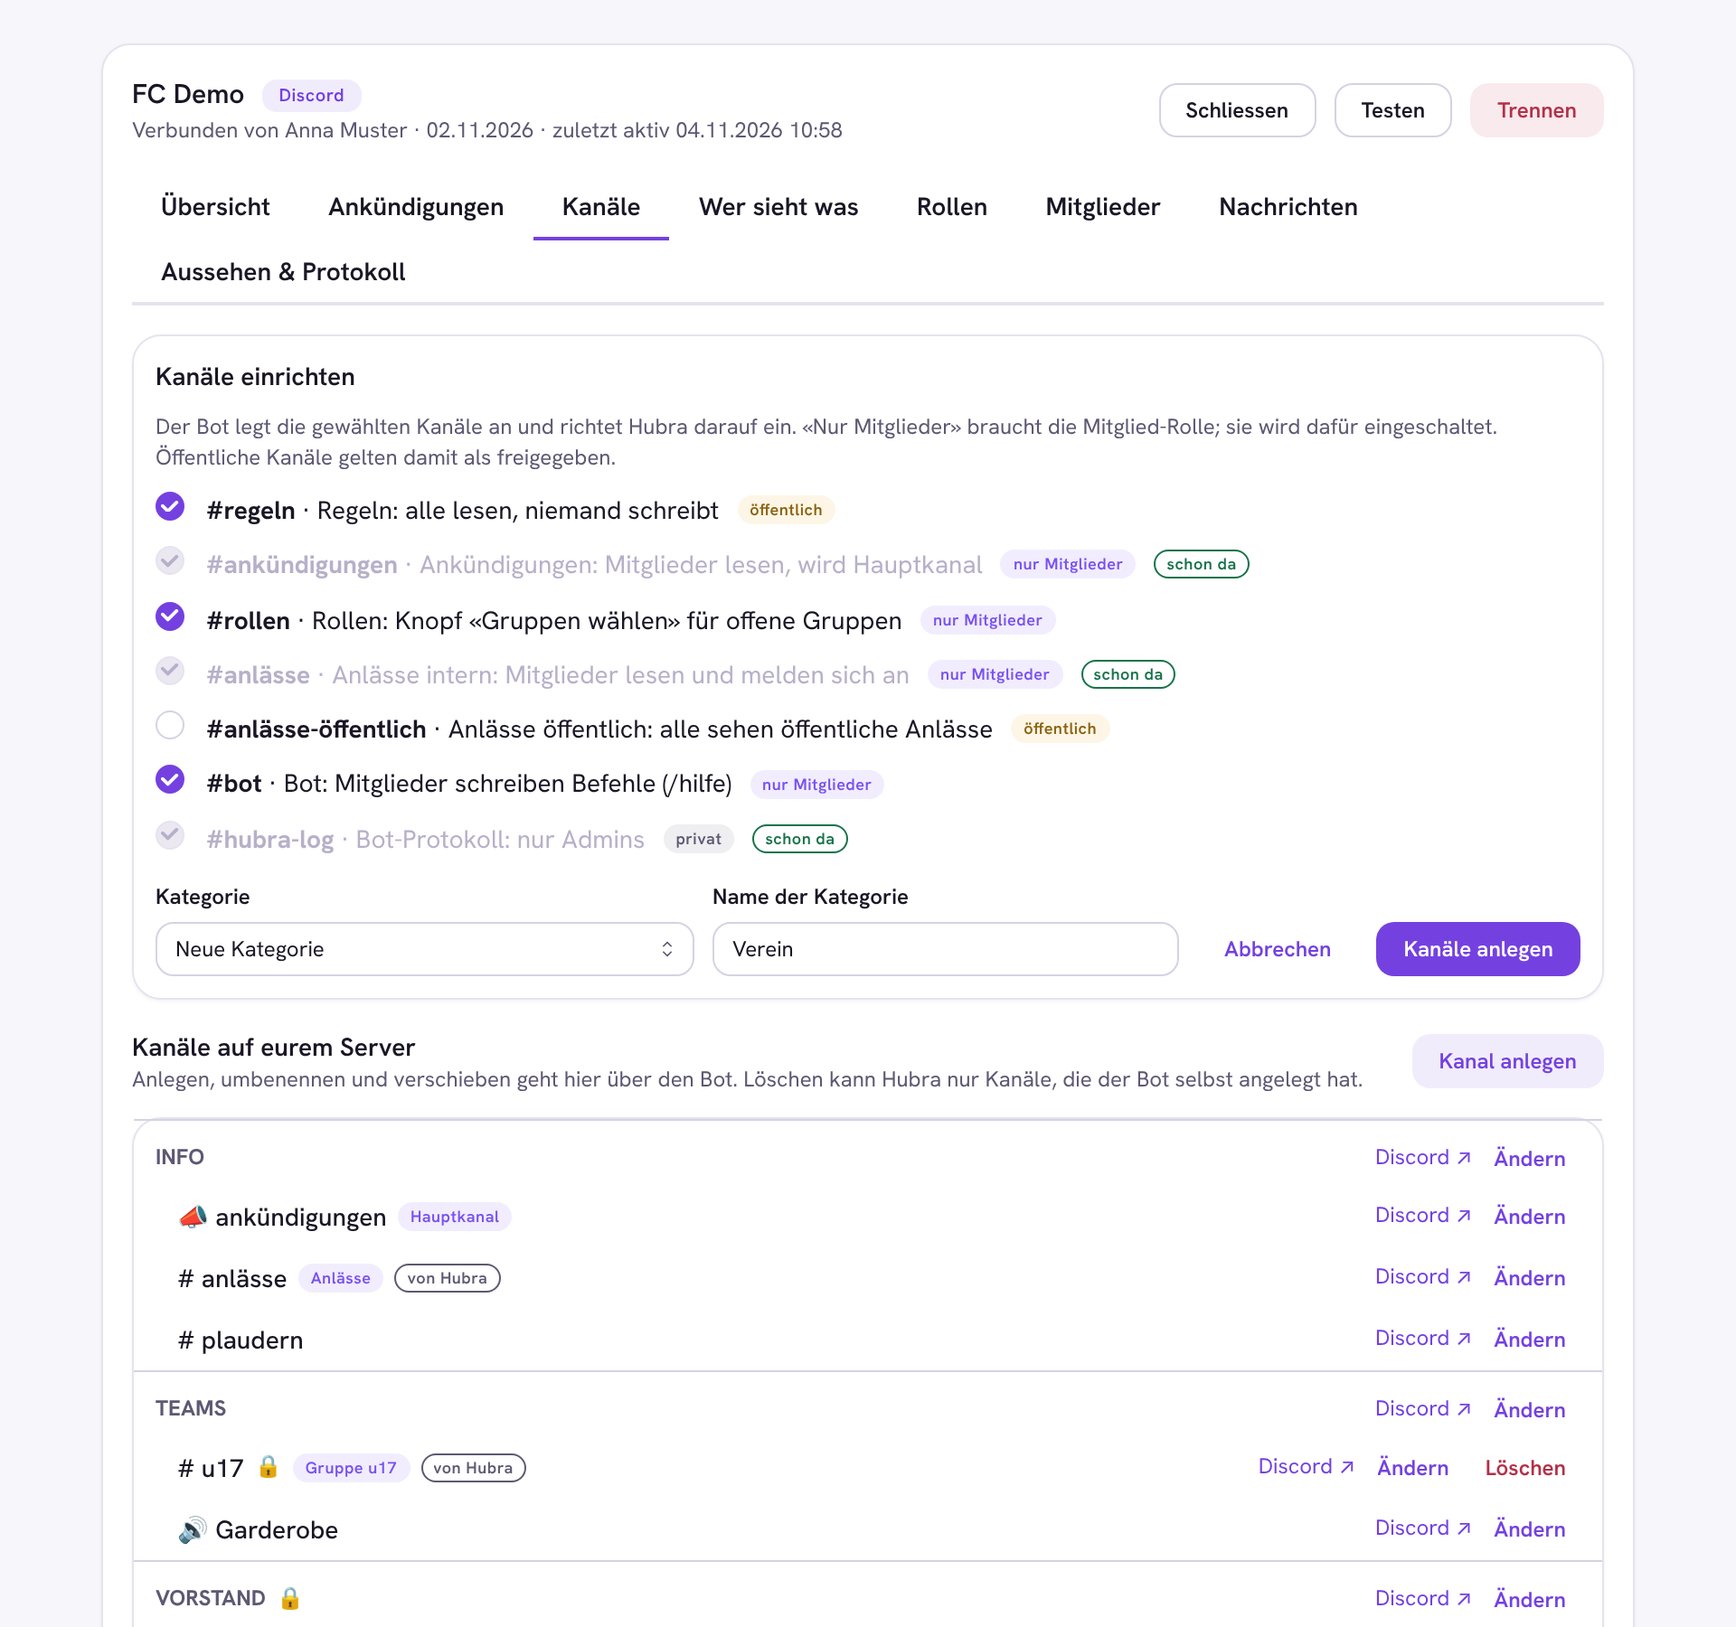
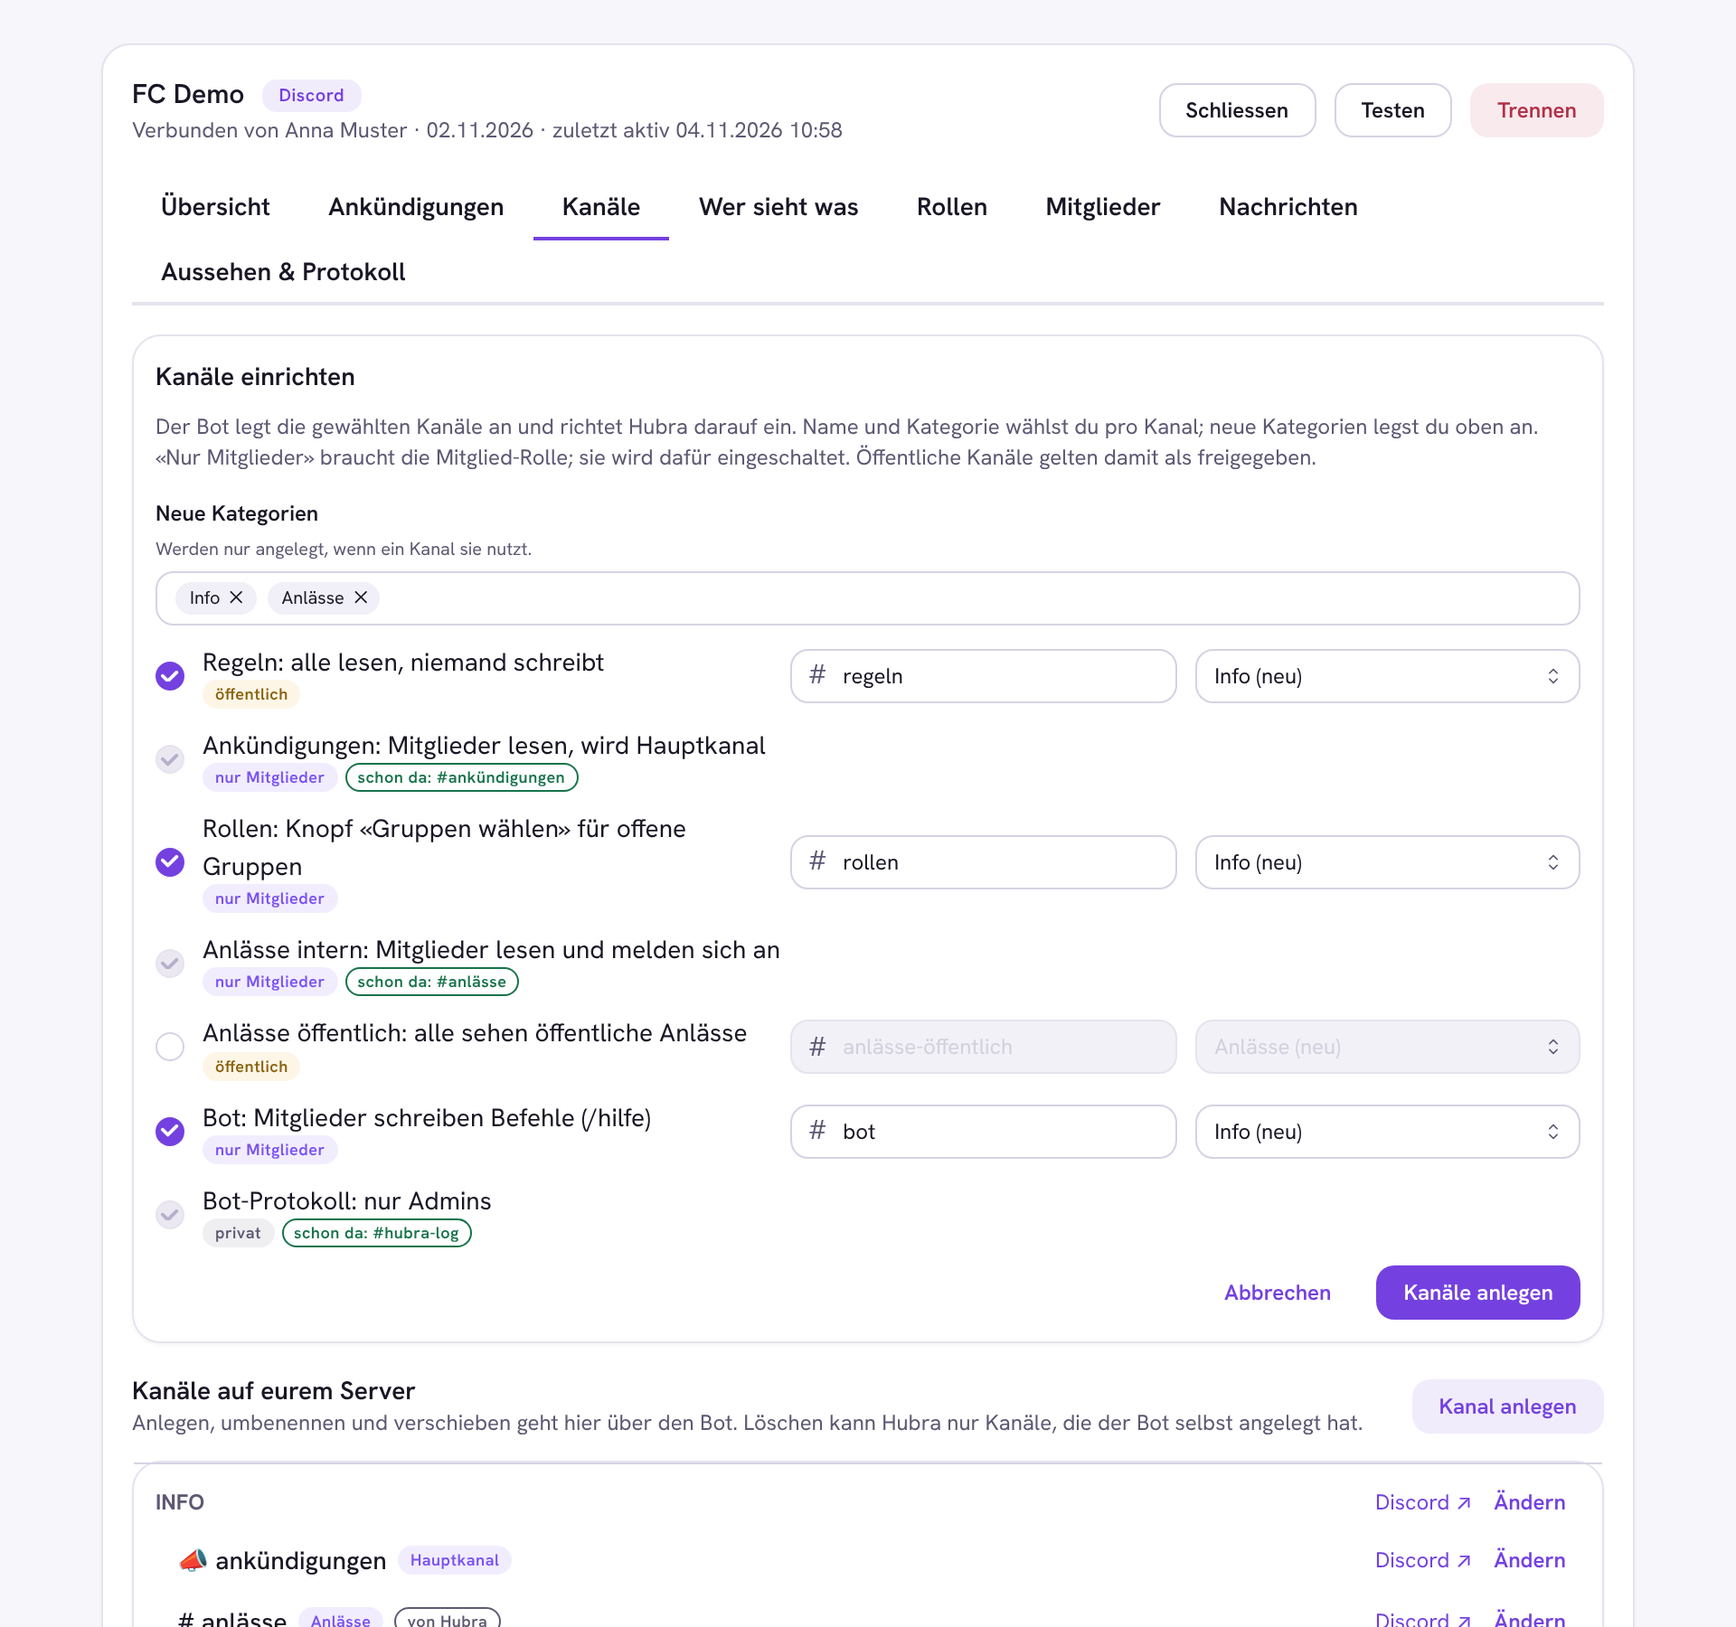
Channel layout: own name and category per channel, several new categories
Claude-Session: https://claude.ai/code/session_01Mn3pyktxtjp8bSzNmKSCQd

diff --git a/frontend/src/index.tsx b/frontend/src/index.tsx
@@ -13,6 +13,7 @@ import {
   Stack,
   Switch,
   Tabs,
+  TagsInput,
   Text,
   TextInput,
   Textarea,
@@ -1291,6 +1292,22 @@ const ACCESS_COLOR: Record<string, string> = {
   private: 'gray',
 }
 
+const DEFAULT_CATEGORY: Record<string, string> = {
+  rules: 'new:Info',
+  announcements: 'new:Info',
+  roles: 'new:Info',
+  events: 'new:Anlässe',
+  public_events: 'new:Anlässe',
+  bot: 'new:Info',
+  log: '',
+}
+
+interface SlotDraft {
+  on: boolean
+  name: string
+  category: string
+}
+
 function LayoutCard({ connection }: { connection: Connection }) {
   const { t } = useT()
   const { notify } = useToast()
@@ -1302,9 +1319,8 @@ function LayoutCard({ connection }: { connection: Connection }) {
     queryFn: () => apiFetch<LayoutState>(`/discord/connections/${connection.id}/layout`),
     enabled: open,
   })
-  const [picked, setPicked] = useState<string[]>(['rules', 'announcements', 'roles', 'events', 'bot'])
-  const [category, setCategory] = useState<string>('new')
-  const [categoryName, setCategoryName] = useState('Verein')
+  const [drafts, setDrafts] = useState<Record<string, SlotDraft>>({})
+  const [newCats, setNewCats] = useState<string[]>(['Info', 'Anlässe'])
   const [busy, setBusy] = useState(false)
   const access = (a: string) =>
     a === 'public_read'
@@ -1335,19 +1351,37 @@ function LayoutCard({ connection }: { connection: Connection }) {
       </Paper>
     )
   const data = query.data
+  const draft = (slot: LayoutState['slots'][number]): SlotDraft =>
+    drafts[slot.key] ?? {
+      on: ['rules', 'announcements', 'roles', 'events', 'bot'].includes(slot.key),
+      name: slot.name,
+      category: DEFAULT_CATEGORY[slot.key] ?? '',
+    }
+  const setDraft = (slot: LayoutState['slots'][number], patch: Partial<SlotDraft>) =>
+    setDrafts((d) => ({ ...d, [slot.key]: { ...draft(slot), ...patch } }))
+  const catData = [
+    { value: '', label: t('discord.ch.noCategory', 'Ohne Kategorie') },
+    ...newCats.map((n) => ({ value: `new:${n}`, label: t('discord.lay.newCat', '{{name}} (neu)', { name: n }) })),
+    ...(data?.categories ?? []).map((c) => ({ value: c.id, label: c.name })),
+  ]
+  const todo = (data?.slots ?? []).filter((s) => !s.channelId && draft(s).on)
   const run = async () => {
     setBusy(true)
     try {
-      const body =
-        category === 'new' ? { slots: picked, categoryName } : { slots: picked, categoryId: category || null }
-      const result = await apiFetch<{ made: { name: string }[] }>(`/discord/connections/${connection.id}/layout`, {
-        method: 'POST',
-        body: JSON.stringify(body),
+      const slots = todo.map((s) => {
+        const d = draft(s)
+        const category = d.category.startsWith('new:') && !newCats.includes(d.category.slice(4)) ? '' : d.category
+        return { key: s.key, name: d.name, category }
       })
+      const result = await apiFetch<{ made: { name: string; slot: string }[] }>(
+        `/discord/connections/${connection.id}/layout`,
+        { method: 'POST', body: JSON.stringify({ slots }) },
+      )
+      const channels = result.made.filter((m) => m.slot !== 'category')
       notify(
         'success',
-        result.made.length
-          ? t('discord.lay.done', 'Angelegt: {{names}}', { names: result.made.map((m) => '#' + m.name).join(', ') })
+        channels.length
+          ? t('discord.lay.done', 'Angelegt: {{names}}', { names: channels.map((m) => '#' + m.name).join(', ') })
           : t('discord.lay.nothing', 'Alles schon da'),
       )
       for (const k of [key, ['discord-server-channels', connection.id], ['discord-options', connection.id], ['discord-audit', connection.id]])
@@ -1366,71 +1400,85 @@ function LayoutCard({ connection }: { connection: Connection }) {
         </Text>
         <Text size="xs" c="dimmed">
           {t(
-            'discord.lay.hint',
-            'Der Bot legt die gewählten Kanäle an und richtet Hubra darauf ein. «Nur Mitglieder» braucht die Mitglied-Rolle; sie wird dafür eingeschaltet. Öffentliche Kanäle gelten damit als freigegeben.',
+            'discord.lay.hint2',
+            'Der Bot legt die gewählten Kanäle an und richtet Hubra darauf ein. Name und Kategorie wählst du pro Kanal; neue Kategorien legst du oben an. «Nur Mitglieder» braucht die Mitglied-Rolle; sie wird dafür eingeschaltet. Öffentliche Kanäle gelten damit als freigegeben.',
           )}
         </Text>
         {!data && <Text c="dimmed" size="sm">{t('discord.loading', 'Lädt …')}</Text>}
-        {data &&
-          data.slots.map((slot) => (
-            <Group key={slot.key} gap="xs" wrap="nowrap">
-              <Checkbox
-                size="xs"
-                disabled={!!slot.channelId}
-                checked={!!slot.channelId || picked.includes(slot.key)}
-                onChange={(e) =>
-                  setPicked(
-                    e.currentTarget.checked ? [...picked, slot.key] : picked.filter((p) => p !== slot.key),
-                  )
-                }
-                label={
-                  <Text size="sm">
-                    <b>#{slot.channelName ?? slot.name}</b> · {t(SLOT_TEXT[slot.key]?.key ?? slot.key, SLOT_TEXT[slot.key]?.label ?? slot.key)}
-                  </Text>
-                }
-              />
-              <Badge size="xs" variant="light" color={ACCESS_COLOR[slot.access] ?? 'gray'}>
-                {access(slot.access)}
-              </Badge>
-              {slot.channelId && (
-                <Badge size="xs" variant="outline" color="green">
-                  {t('discord.lay.there', 'schon da')}
-                </Badge>
-              )}
-            </Group>
-          ))}
         {data && (
-          <Group gap="xs" align="flex-end" wrap="wrap">
-            <Select
-              size="xs"
-              style={{ flex: '1 1 200px' }}
-              label={t('discord.ch.parent', 'Kategorie')}
-              data={[
-                { value: 'new', label: t('discord.lay.newCategory', 'Neue Kategorie') },
-                { value: '', label: t('discord.ch.noCategory', 'Ohne Kategorie') },
-                ...data.categories.map((c) => ({ value: c.id, label: c.name })),
-              ]}
-              value={category}
-              allowDeselect={false}
-              onChange={(v) => setCategory(v ?? 'new')}
-            />
-            {category === 'new' && (
-              <TextInput
-                size="xs"
-                style={{ flex: '1 1 160px' }}
-                label={t('discord.lay.categoryName', 'Name der Kategorie')}
-                value={categoryName}
-                maxLength={100}
-                onChange={(e) => setCategoryName(e.currentTarget.value)}
-              />
-            )}
+          <TagsInput
+            size="xs"
+            label={t('discord.lay.newCategories', 'Neue Kategorien')}
+            description={t('discord.lay.newCategoriesHint', 'Werden nur angelegt, wenn ein Kanal sie nutzt.')}
+            value={newCats}
+            onChange={(v) => setNewCats(v.map((x) => x.trim().slice(0, 100)).filter(Boolean))}
+            maxTags={10}
+          />
+        )}
+        {data &&
+          data.slots.map((slot) => {
+            const d = draft(slot)
+            return (
+              <Group key={slot.key} gap="xs" wrap="wrap" align="center">
+                <Checkbox
+                  size="xs"
+                  style={{ flex: '0 0 auto' }}
+                  disabled={!!slot.channelId}
+                  checked={!!slot.channelId || d.on}
+                  onChange={(e) => setDraft(slot, { on: e.currentTarget.checked })}
+                  aria-label={slot.name}
+                />
+                <div style={{ flex: '3 1 220px', minWidth: 0 }}>
+                  <Text size="sm">
+                    {t(SLOT_TEXT[slot.key]?.key ?? slot.key, SLOT_TEXT[slot.key]?.label ?? slot.key)}
+                  </Text>
+                  <Group gap={4}>
+                    <Badge size="xs" variant="light" color={ACCESS_COLOR[slot.access] ?? 'gray'}>
+                      {access(slot.access)}
+                    </Badge>
+                    {slot.channelId && (
+                      <Badge size="xs" variant="outline" color="green">
+                        {t('discord.lay.thereAs', 'schon da: #{{name}}', { name: slot.channelName ?? '' })}
+                      </Badge>
+                    )}
+                  </Group>
+                </div>
+                {!slot.channelId && (
+                  <>
+                    <TextInput
+                      size="xs"
+                      style={{ flex: '2 1 150px' }}
+                      aria-label={t('discord.channelName', 'Kanalname')}
+                      leftSection="#"
+                      value={d.name}
+                      maxLength={100}
+                      disabled={!d.on}
+                      onChange={(e) => setDraft(slot, { name: e.currentTarget.value })}
+                    />
+                    <Select
+                      size="xs"
+                      style={{ flex: '2 1 150px' }}
+                      aria-label={t('discord.ch.parent', 'Kategorie')}
+                      data={catData}
+                      value={catData.some((c) => c.value === d.category) ? d.category : ''}
+                      allowDeselect={false}
+                      disabled={!d.on}
+                      onChange={(v) => setDraft(slot, { category: v ?? '' })}
+                    />
+                  </>
+                )}
+              </Group>
+            )
+          })}
+        {data && (
+          <Group justify="flex-end" gap="xs">
             <Button size="xs" variant="subtle" onClick={() => setOpen(false)}>
               {t('common.cancel', 'Abbrechen')}
             </Button>
             <Button
               size="xs"
               loading={busy}
-              disabled={!data.hasScope || !picked.some((p) => !data.slots.find((s) => s.key === p)?.channelId)}
+              disabled={!data.hasScope || todo.length === 0 || todo.some((s) => !draft(s).name.trim())}
               onClick={run}
             >
               {t('discord.lay.make', 'Kanäle anlegen')}

diff --git a/hubra_discord/layout.py b/hubra_discord/layout.py
@@ -178,9 +178,26 @@ def _roles_panel() -> dict:
     }
 
 
+def _wanted(slots) -> dict[str, dict]:
+    """slot → {name, category}. A slot is a key, or {key, name, category}
+    where category is "" (none), an existing category id or "new:<name>"."""
+    out: dict[str, dict] = {}
+    for item in slots or []:
+        if isinstance(item, dict):
+            key = str(item.get("key") or "")
+            name = " ".join(str(item.get("name") or "").split())[:100]
+            category = item.get("category")
+            category = None if category is None else str(category)
+        else:
+            key, name, category = str(item), "", None
+        if key in SLOTS:
+            out[key] = {"name": name, "category": category}
+    return out
+
+
 def apply(
     conn,
-    slots: list[str],
+    slots: list,
     *,
     category_id: str | None = None,
     category_name: str = "",
@@ -195,7 +212,8 @@ def apply(
             "Kanäle verwalten ist für diese Verbindung nicht freigegeben "
             "(Bereich «Kanäle» unter Darf)."
         )
-    picked = [s for s in ORDER if s in set(slots or [])]
+    wanted = _wanted(slots)
+    picked = [s for s in ORDER if s in wanted]
     if not picked:
         raise LayoutError("Wähle mindestens einen Kanal.")
     state = current(conn)
@@ -203,27 +221,59 @@ def apply(
     todo = [s for s in picked if s not in have]
     if not todo:
         return {"made": [], "kept": picked}
+    known_ids = {c["id"] for c in state["categories"]}
+    for slot in todo:
+        choice = wanted[slot]["category"]
+        if choice and not choice.startswith("new:") and choice not in known_ids:
+            raise LayoutError("Diese Kategorie gibt es auf eurem Server nicht.")
+    if category_id and str(category_id) not in known_ids:
+        raise LayoutError("Diese Kategorie gibt es auf eurem Server nicht.")
     guild = str(conn.external_id)
     reason = f"Hubra: Kanäle eingerichtet von {who or 'einem Admin'}"
     made: list[dict] = []
     try:
         needs_members = any(SLOTS[s]["access"].startswith("members") for s in todo)
         role = member_role.ensure_now(conn) if needs_members else None
-        parent = None
-        if category_id:
-            if category_id not in {c["id"] for c in state["categories"]}:
+        known = {c["id"] for c in state["categories"]}
+        new_cats: dict[str, str] = {}  # name → id, made once each
+
+        def parent_for(choice: str | None) -> str | None:
+            if choice is None:  # the shared choice for all slots
+                if category_id:
+                    choice = str(category_id)
+                elif category_name.strip():
+                    choice = "new:" + category_name.strip()
+                else:
+                    return None
+            if not choice:
+                return None
+            if choice.startswith("new:"):
+                name = choice[4:].strip()[:100]
+                if not name:
+                    return None
+                if name not in new_cats:
+                    cat = api.create_channel(guild, {"name": name, "type": 4}, reason)
+                    new_cats[name] = str(cat["id"])
+                    made.append(
+                        {
+                            "slot": "category",
+                            "id": new_cats[name],
+                            "name": cat.get("name"),
+                        }
+                    )
+                return new_cats[name]
+            if choice not in known:
                 raise LayoutError("Diese Kategorie gibt es auf eurem Server nicht.")
-            parent = str(category_id)
-        elif category_name.strip():
-            cat = api.create_channel(
-                guild, {"name": category_name.strip()[:100], "type": 4}, reason
-            )
-            parent = str(cat["id"])
-            made.append({"slot": "category", "id": parent, "name": cat.get("name")})
+            return choice
+
         for slot in todo:
             spec = SLOTS[slot]
+            parent = parent_for(wanted[slot]["category"])
+            name = wanted[slot]["name"] or spec["name"]
+            if spec.get("type", 0) in (0, 5):
+                name = name.lower().replace(" ", "-")
             body = {
-                "name": spec["name"],
+                "name": name,
                 "type": spec.get("type", 0),
                 "topic": spec["topic"],
                 "permission_overwrites": _overwrites(conn, spec["access"], role),

diff --git a/tests/test_discord.py b/tests/test_discord.py
@@ -2828,3 +2828,40 @@ def test_roles_channel_button_shows_the_groups(client, db, tenant, trainer, seed
     answer = _signed(client, click).get_json()
     assert answer["type"] == 4 and "Chor" in answer["data"]["content"]
     assert answer["data"]["flags"] == 64
+
+
+def test_layout_with_own_names_and_several_new_categories(
+    client, db, club_auth, tenant, discord_settings
+):
+    conn = _conn(db, tenant, scopes=("announce", "channels"), channel_id=None)
+    server = LayoutServer()
+    base = f"/api/v1/discord/connections/{conn.id}/layout"
+    with patch.object(api, "bot", side_effect=server):
+        resp = client.post(
+            base,
+            json={
+                "slots": [
+                    {"key": "rules", "name": "Hausordnung", "category": "new:Info"},
+                    {"key": "announcements", "name": "news", "category": "new:Info"},
+                    {"key": "events", "name": "Termine", "category": "new:Anlässe"},
+                    {"key": "bot", "category": "903"},
+                ]
+            },
+            headers=H,
+        )
+        assert resp.status_code == 201, resp.get_json()
+        made = resp.get_json()["made"]
+        bad = client.post(
+            base, json={"slots": [{"key": "log", "category": "12345"}]}, headers=H
+        )
+    cats = [m for m in made if m["slot"] == "category"]
+    assert [c["name"] for c in cats] == ["Info", "Anlässe"]
+    by_slot = {m["slot"]: m for m in made}
+    assert by_slot["rules"]["name"] == "hausordnung"
+    assert by_slot["events"]["name"] == "termine"
+    by_id = {c["id"]: c for c in server.channels}
+    assert by_id[by_slot["rules"]["id"]]["parent_id"] == cats[0]["id"]
+    assert by_id[by_slot["announcements"]["id"]]["parent_id"] == cats[0]["id"]
+    assert by_id[by_slot["events"]["id"]]["parent_id"] == cats[1]["id"]
+    assert by_id[by_slot["bot"]["id"]]["parent_id"] == "903"
+    assert bad.status_code == 409

diff --git a/hubra_discord/routes.py b/hubra_discord/routes.py
@@ -315,7 +315,7 @@ def server_apply_layout(connection_id: int):
     def run(member, conn):
         result = apply(
             conn,
-            [str(s) for s in slots],
+            [s if isinstance(s, dict) else str(s) for s in slots],
             category_id=str(body.get("categoryId") or "") or None,
             category_name=str(body.get("categoryName") or ""),
             who=member.name,
